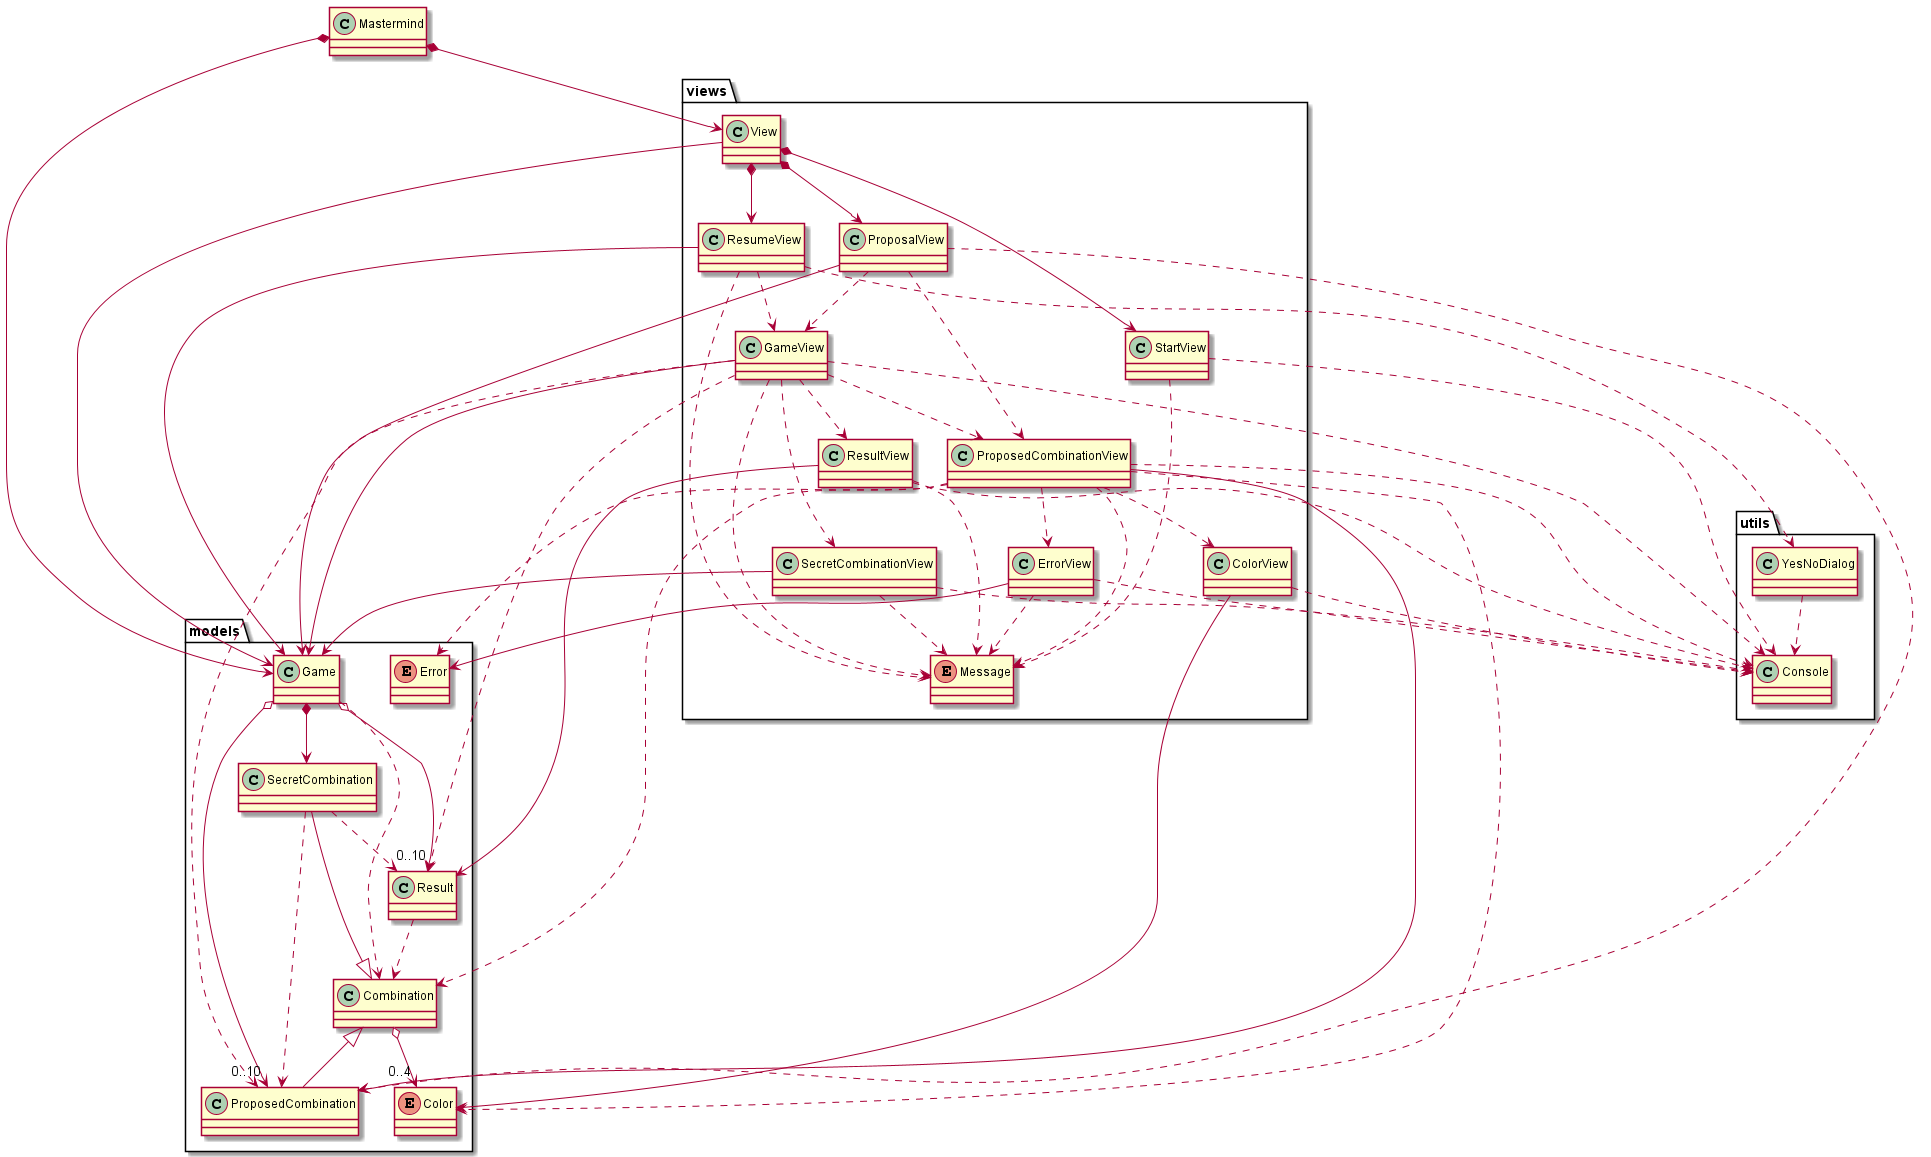
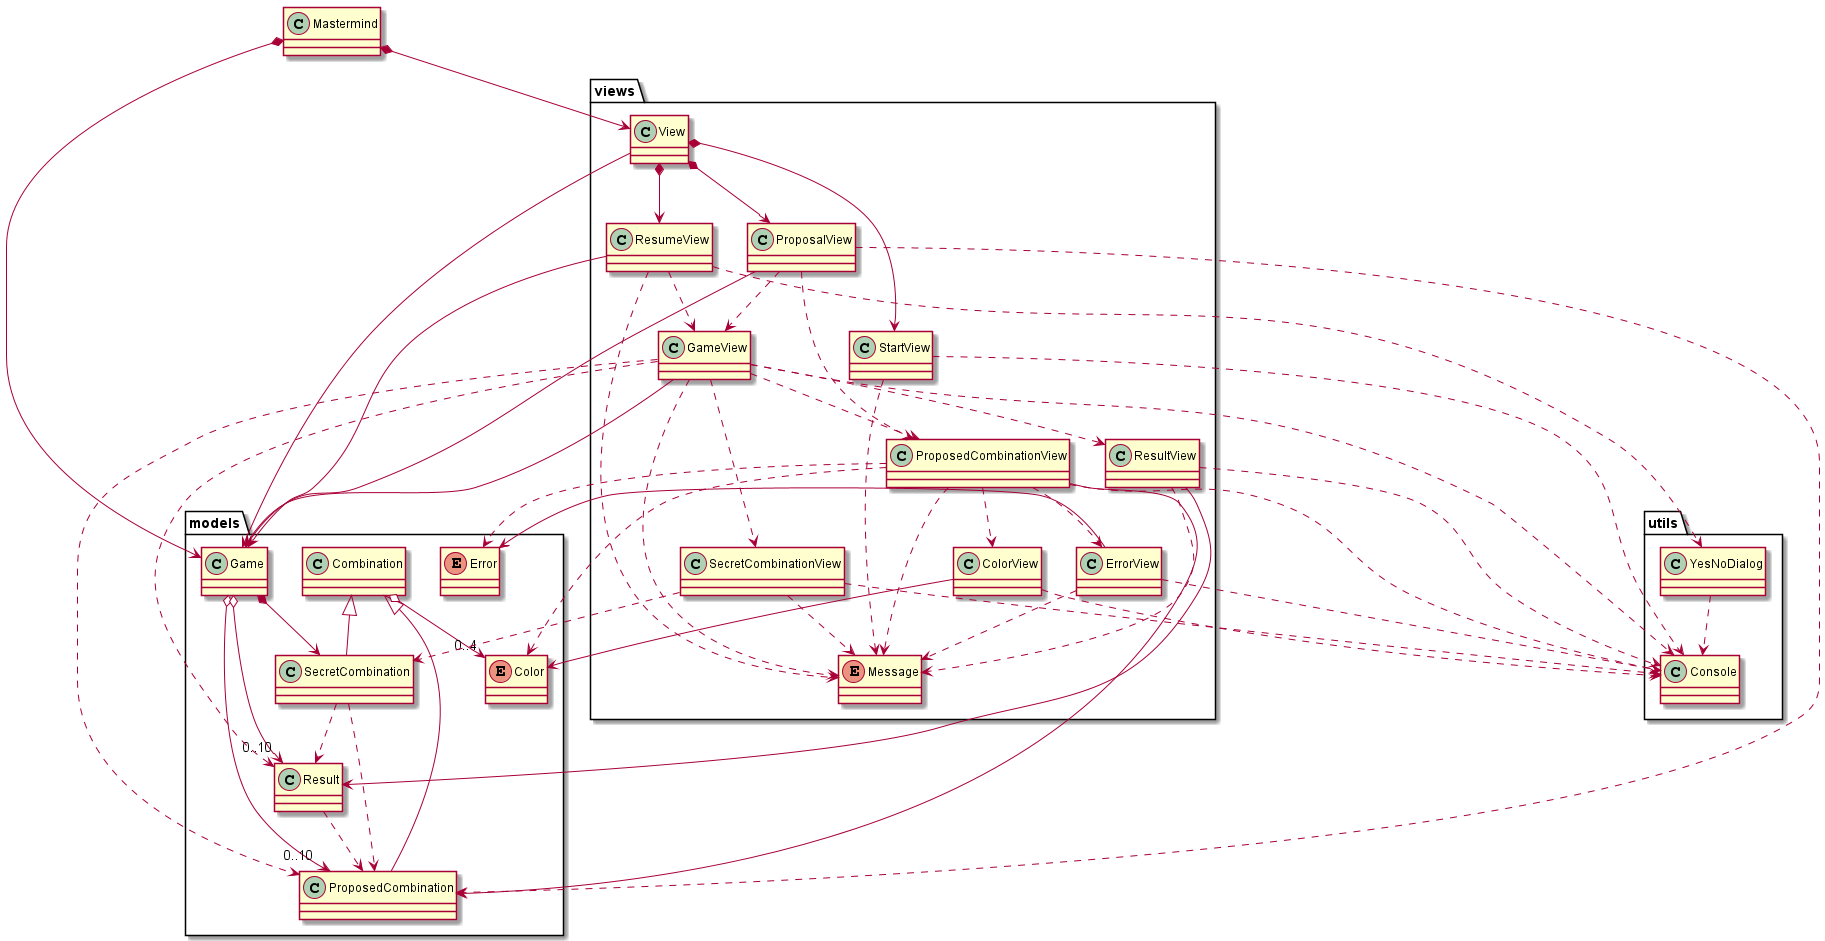
Class Combination sólo depende de sus hijas

diff --git a/mastermind/src/main/java/es/escuelaIt/masterProgramacion/doo/views/ProposedCombinationView.java b/mastermind/src/main/java/es/escuelaIt/masterProgramacion/doo/views/ProposedCombinationView.java
@@ -2,7 +2,6 @@ package es.escuelaIt.masterProgramacion.doo.views;
 
 import es.escuelaIt.masterProgramacion.doo.models.ProposedCombination;
 import es.escuelaIt.masterProgramacion.doo.models.Color;
-import es.escuelaIt.masterProgramacion.doo.models.Combination;
 import es.escuelaIt.masterProgramacion.doo.models.Error;
 import es.escuelaIt.masterProgramacion.doo.utils.Console;
 
@@ -22,7 +21,7 @@ public class ProposedCombinationView {
             error = Error.NULL;
             console.write(Message.PROPOSE.getMessage());
             characters = console.readString();
-            if (characters.length() != Combination.COMBINATION_SIZE) {
+            if (characters.length() != ProposedCombination.getSize()) {
                 error = Error.WRONG_LENGTH;
             } else {
                 for (int i = 0; i < characters.length(); i++) {

diff --git a/mastermind/src/main/java/es/escuelaIt/masterProgramacion/doo/views/SecretCombinationView.java b/mastermind/src/main/java/es/escuelaIt/masterProgramacion/doo/views/SecretCombinationView.java
@@ -1,19 +1,13 @@
 package es.escuelaIt.masterProgramacion.doo.views;
 
-import es.escuelaIt.masterProgramacion.doo.models.Game;
+import es.escuelaIt.masterProgramacion.doo.models.SecretCombination;
 import es.escuelaIt.masterProgramacion.doo.utils.Console;
 
 public class SecretCombinationView {
 
-    private Game game;
-
-    public SecretCombinationView(Game game) {
-        this.game = game;
-    }
-
     public void write() {
         Console console = Console.getInstance();
-        for (int i = 0; i < this.game.getCombinationSize(); i++) {
+        for (int i = 0; i < SecretCombination.getSize(); i++) {
             console.write(Message.SECRET.getMessage());
         }
         console.writeln();

diff --git a/mastermind/src/main/java/es/escuelaIt/masterProgramacion/doo/models/Game.java b/mastermind/src/main/java/es/escuelaIt/masterProgramacion/doo/models/Game.java
@@ -5,7 +5,7 @@ import java.util.List;
 
 public class Game {
 
-    public static final int MAX_ATTEMPTS = 10;
+    private static final int MAX_ATTEMPTS = 10;
     private SecretCombination secretCombination;
     private List<ProposedCombination> proposedCombinations;
     private List<Result> results;
@@ -28,10 +28,6 @@ public class Game {
         assert this.getAttempts() < Game.MAX_ATTEMPTS;
         this.proposedCombinations.add(proposedCombination);
         this.results.add(this.secretCombination.getResult(proposedCombination));
-    }
-
-    public int getCombinationSize() {
-        return Combination.COMBINATION_SIZE;
     }
 
     public boolean isFinished() {

diff --git a/mastermind/src/main/java/es/escuelaIt/masterProgramacion/doo/views/GameView.java b/mastermind/src/main/java/es/escuelaIt/masterProgramacion/doo/views/GameView.java
@@ -15,7 +15,7 @@ public class GameView {
         Console console = Console.getInstance();
         int attempts = this.game.getAttempts();
         console.writeln(Message.ATTEMPTS.getMessage().replace("#attempts", "" + attempts));
-        new SecretCombinationView(this.game).write();
+        new SecretCombinationView().write();
         for (int i = 0; i < attempts; i++) {
             new ProposedCombinationView(this.game.getProposedCombination(i)).write();
             new ResultView(this.game.getResult(i)).write();

diff --git a/mastermind/src/main/java/es/escuelaIt/masterProgramacion/doo/models/SecretCombination.java b/mastermind/src/main/java/es/escuelaIt/masterProgramacion/doo/models/SecretCombination.java
@@ -12,7 +12,7 @@ public class SecretCombination extends Combination {
             if (!color.isNull()) this.colors.add(color);
         }
         Random random = new Random(System.currentTimeMillis());
-        for (int i = 0; i < (Color.length() - 1) - Combination.COMBINATION_SIZE; i++) {
+        for (int i = 0; i < (Color.length() - 1) - SecretCombination.getSize(); i++) {
             this.colors.remove(random.nextInt(this.colors.size()));
         }
         Collections.shuffle(this.colors);

diff --git a/mastermind/src/main/java/es/escuelaIt/masterProgramacion/doo/models/ProposedCombination.java b/mastermind/src/main/java/es/escuelaIt/masterProgramacion/doo/models/ProposedCombination.java
@@ -29,7 +29,7 @@ public class ProposedCombination extends Combination {
     }
 
     public void add(Color color) {
-        assert this.colors.size() < Combination.COMBINATION_SIZE;
+        assert this.colors.size() < ProposedCombination.getSize();
         assert !color.isNull();
         this.colors.add(color);
     }

diff --git a/mastermind/src/main/java/es/escuelaIt/masterProgramacion/doo/models/Combination.java b/mastermind/src/main/java/es/escuelaIt/masterProgramacion/doo/models/Combination.java
@@ -4,6 +4,10 @@ import java.util.List;
 
 public class Combination {
     
-    public static final int COMBINATION_SIZE = 4;
+    private static final int COMBINATION_SIZE = 4;
     protected List<Color> colors;
+
+    public static int getSize() {
+        return Combination.COMBINATION_SIZE;
+    }
 }

diff --git a/mastermind/src/main/java/es/escuelaIt/masterProgramacion/doo/models/Result.java b/mastermind/src/main/java/es/escuelaIt/masterProgramacion/doo/models/Result.java
@@ -19,7 +19,7 @@ public class Result {
     }
 
     public boolean isWinner() {
-        return this.getBlacks() == Combination.COMBINATION_SIZE;
+        return this.getBlacks() == ProposedCombination.getSize();
     }
 
 }
